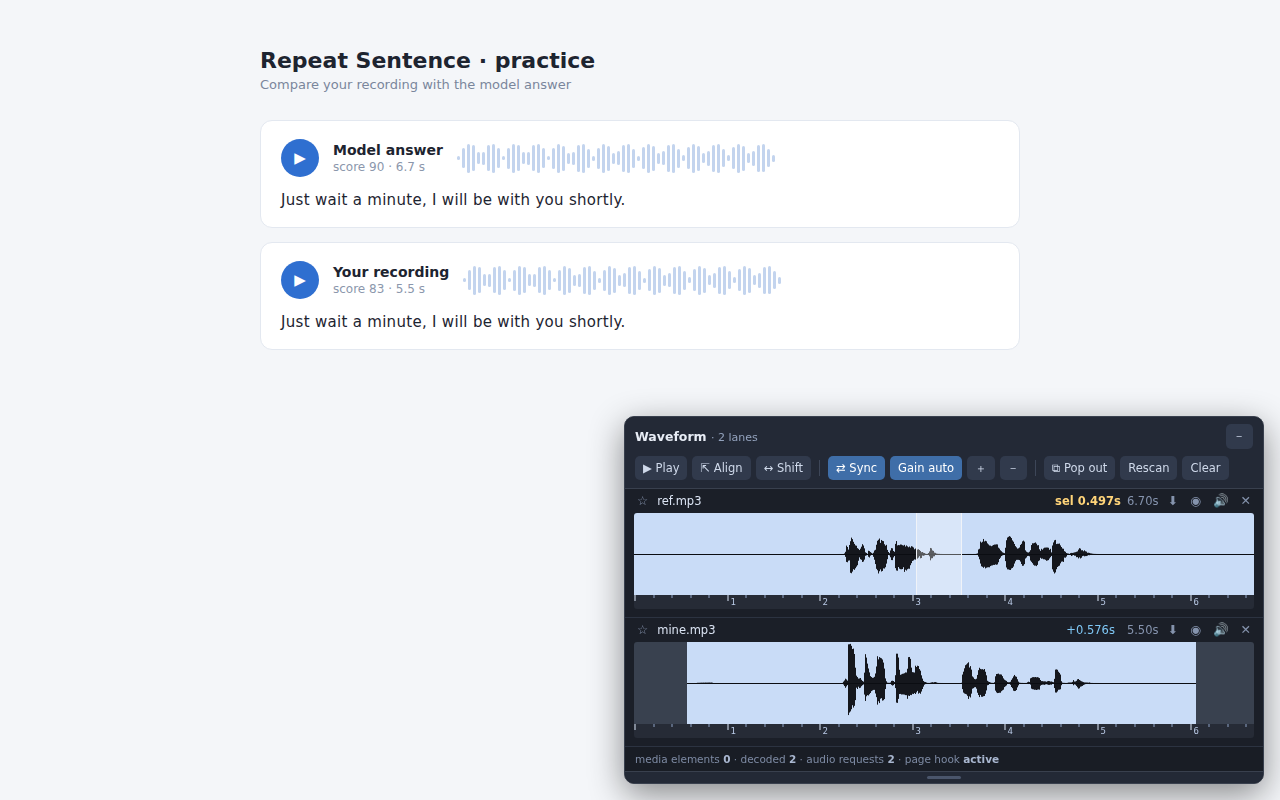
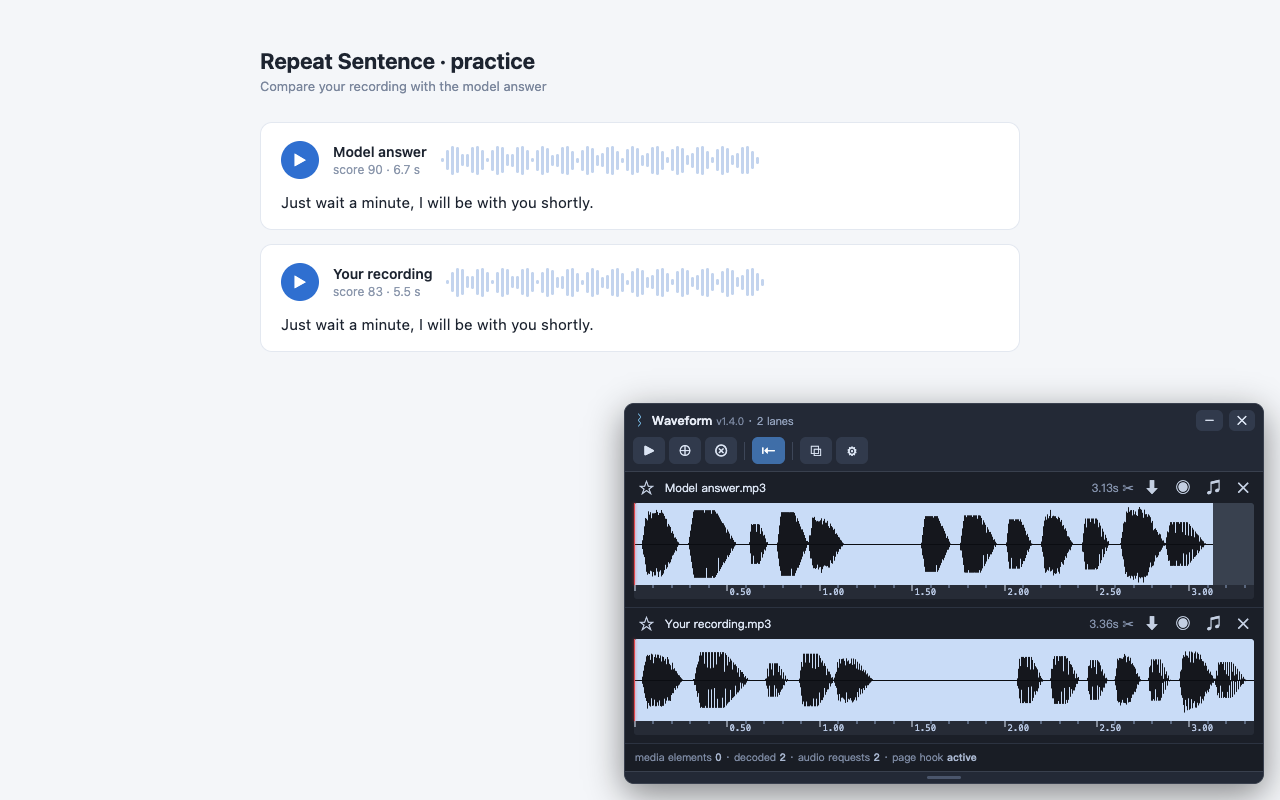
Regenerate the store screenshots for 1.4.0, and make them reproducible
The shipped screenshots still showed the text-label toolbar from before 1.4.0.
Screenshots of an interface the user will not find once they install are worse
than none, so they are now generated from the built extension by
store/make-screenshots.js rather than captured by hand.

Four shots at 1280x800 (the size both stores want): the panel over a practice
page, a selection measuring the pause, the standalone window filling a screen,
and the settings sheet.

The audio is synthesised with a syllable envelope instead of the plain tones
the test suite uses — tones render as solid rectangles, and a store image of
that misrepresents what the tool draws. The two clips differ in where they
pause, which is the comparison the extension exists to make visible. Lane
labels come from the file name, so the files are named "Model answer" and
"Your recording": in a screenshot that label is doing the explaining.

Drops 02-popout.png and 02-window.png, which were stale duplicates.

diff --git a/store/make-screenshots.js b/store/make-screenshots.js
@@ -1,0 +1,142 @@
+/* Regenerates the store screenshots against the built extension.
+ *
+ *   ./build.sh && node store/make-screenshots.js
+ *
+ * Run it whenever the panel's look changes: shipping screenshots of a toolbar
+ * the user will not find once they install is worse than shipping none.
+ * Same Chromium setup as test/e2e.js — see DESIGN.md §20.3 for why the system
+ * Chrome cannot be used. The page behind the panel is test/demo.html, a mock
+ * practice page that imitates nobody.
+ */
+const { chromium } = require('playwright');
+const path = require('path'), os = require('os'), fs = require('fs');
+const REPO = path.join(__dirname, '..');
+const EXT = path.join(REPO, 'build', 'chrome');
+const OUT = path.join(REPO, 'store', 'screenshots');
+const SR_HZ = 44100;
+const sleep = (ms) => new Promise(r => setTimeout(r, ms));
+const SR = `document.getElementById('__wf_viewer_host').shadowRoot`;
+
+/* Speech-shaped audio. Pure tones render as solid rectangles, which is not what
+   anyone's recording looks like; a store screenshot showing that is a lie about
+   what the tool draws. Syllables get an attack/decay envelope, a drifting pitch
+   and a little noise, so the waveform has the bursts and gaps of real speech. */
+function syllable(dur, amp, f0, noisy) {
+  const n = Math.round(dur * SR_HZ), out = new Float32Array(n);
+  const atk = Math.max(1, n * 0.12), dec = Math.max(1, n * 0.45);
+  for (let i = 0; i < n; i++) {
+    const env = i < atk ? i / atk : Math.min(1, (n - i) / dec);
+    const f = f0 * (1 - 0.12 * (i / n));
+    const t = i / SR_HZ;
+    let v = Math.sin(2 * Math.PI * f * t) * 0.6
+          + Math.sin(4 * Math.PI * f * t) * 0.25
+          + Math.sin(6 * Math.PI * f * t) * 0.12;
+    if (noisy) v = v * 0.35 + (Math.random() * 2 - 1) * 0.5;
+    out[i] = v * env * amp;
+  }
+  return out;
+}
+const gap = (d) => new Float32Array(Math.round(d * SR_HZ));
+function wav(parts) {
+  let len = 0; for (const p of parts) len += p.length;
+  const data = Buffer.alloc(len * 2);
+  let o = 0;
+  for (const p of parts) for (let i = 0; i < p.length; i++, o += 2)
+    data.writeInt16LE(Math.max(-32768, Math.min(32767, Math.round(p[i] * 32767))), o);
+  const h = Buffer.alloc(44);
+  h.write('RIFF', 0); h.writeUInt32LE(36 + data.length, 4); h.write('WAVE', 8);
+  h.write('fmt ', 12); h.writeUInt32LE(16, 16); h.writeUInt16LE(1, 20); h.writeUInt16LE(1, 22);
+  h.writeUInt32LE(SR_HZ, 24); h.writeUInt32LE(SR_HZ * 2, 28); h.writeUInt16LE(2, 32); h.writeUInt16LE(16, 34);
+  h.write('data', 36); h.writeUInt32LE(data.length, 40);
+  return Buffer.concat([h, data]);
+}
+// "Just wait a minute, I will be with you shortly."
+const say = (spec, base) => {
+  const out = [];
+  for (const s of spec) out.push(typeof s === 'number' ? gap(s) : syllable(s[0], s[1], base * s[2], s[3]));
+  return out;
+};
+const WORDS = [
+  [0.20, 0.75, 1.00, true], 0.05, [0.26, 0.85, 1.06], 0.07, [0.10, 0.50, 0.94],
+  0.05, [0.17, 0.80, 1.10], [0.19, 0.60, 0.90, true],
+  0.42,                                    // the pause after "minute"
+  [0.16, 0.70, 1.12], 0.05, [0.20, 0.72, 1.00], 0.05, [0.14, 0.62, 0.95],
+  0.05, [0.17, 0.68, 1.04, true], 0.05, [0.15, 0.64, 0.92],
+  0.06, [0.24, 0.80, 1.08, true], [0.22, 0.55, 0.86]
+];
+// the learner's take: a longer hesitation, and the tail rushed
+const MINE = [
+  [0.22, 0.62, 1.00, true], 0.06, [0.30, 0.70, 1.04], 0.09, [0.12, 0.42, 0.92],
+  0.06, [0.19, 0.66, 1.08], [0.21, 0.50, 0.88, true],
+  0.78,                                    // hesitates twice as long
+  [0.14, 0.58, 1.10], 0.04, [0.16, 0.60, 1.00], 0.04, [0.11, 0.50, 0.94],
+  0.04, [0.14, 0.56, 1.02, true], 0.04, [0.12, 0.52, 0.90],
+  0.05, [0.19, 0.66, 1.06, true], [0.17, 0.45, 0.85]
+];
+/* The lane label comes from the file name, and in a store screenshot that label
+   is doing the explaining. "Model answer" beats "ref.mp3". The demo page is
+   served with its references rewritten to match; the repo copy is untouched. */
+const FILES = {
+  'Model answer.mp3':   wav([gap(0.5), ...say(WORDS, 165), gap(0.6)]),
+  'Your recording.mp3': wav([gap(0.8), ...say(MINE, 128),  gap(0.5)]),
+  'demo.html': Buffer.from(fs.readFileSync(path.join(REPO, 'test', 'demo.html'), 'utf8')
+    .replace(/ref\.mp3/g, 'Model answer.mp3')
+    .replace(/mine\.mp3/g, 'Your recording.mp3'))
+};
+
+(async () => {
+  fs.mkdirSync(OUT, { recursive: true });
+  const dir = fs.mkdtempSync(path.join(os.tmpdir(), 'wf-'));
+  const ctx = await chromium.launchPersistentContext(dir, {
+    channel: 'chromium', headless: true,
+    ignoreDefaultArgs: ['--disable-extensions', '--disable-component-extensions-with-background-pages'],
+    args: ['--disable-extensions-except=' + EXT, '--load-extension=' + EXT,
+           '--autoplay-policy=no-user-gesture-required', '--no-first-run'],
+    viewport: { width: 1280, height: 800 }, deviceScaleFactor: 1
+  });
+  await ctx.route('https://practice.example/**', (route) => {
+    // decode: the file names have spaces in them, and the URL does not
+    const n = decodeURIComponent(new URL(route.request().url()).pathname).replace(/^\//, '') || 'demo.html';
+    const b = FILES[n];
+    if (!b) return route.fulfill({ status: 404, body: 'no' });
+    route.fulfill({ status: 200, body: b, contentType: n.endsWith('.html') ? 'text/html' : 'audio/mpeg' });
+  });
+
+  const page = ctx.pages()[0] || await ctx.newPage();
+  await page.goto('https://practice.example/demo.html');
+  await sleep(700);
+  await page.click('[data-f="Model answer.mp3"]');
+  await sleep(1500);
+  await page.click('[data-f="Your recording.mp3"]');
+  await sleep(2500);
+
+  await page.screenshot({ path: path.join(OUT, '01-compare.png') });
+
+  // drag across the pause on the second lane, so the gap readout is on screen
+  const box = await page.evaluate(`(() => {
+      const c = [...${SR}.querySelectorAll('.lane canvas')][1].getBoundingClientRect();
+      return { x: c.left, y: c.top + c.height / 2, w: c.width }; })()`);
+  await page.mouse.move(box.x + box.w * 0.40, box.y);
+  await page.mouse.down();
+  await page.mouse.move(box.x + box.w * 0.56, box.y, { steps: 12 });
+  await page.mouse.up();
+  await sleep(500);
+  await page.screenshot({ path: path.join(OUT, '02-measure.png') });
+
+  await page.evaluate(`${SR}.querySelector('[data-act="settings"]').click()`);
+  await sleep(500);
+  await page.screenshot({ path: path.join(OUT, '04-settings.png') });
+  await page.evaluate(`${SR}.querySelector('[data-act="settings"]').click()`);
+  await sleep(300);
+
+  await page.evaluate(`${SR}.querySelector('[data-act="pop"]').click()`);
+  await sleep(3000);
+  const win = ctx.pages().find(p => p.url().includes('panel.html'));
+  if (win) {
+    await win.setViewportSize({ width: 1280, height: 800 });
+    await sleep(1200);
+    await win.screenshot({ path: path.join(OUT, '03-window.png') });
+  }
+  await ctx.close();
+  console.log('written to', OUT);
+})();

diff --git a/DESIGN.md b/DESIGN.md
@@ -1345,9 +1345,19 @@ src/ + manifests/<target>.json  →  build/<target>/  →  dist/*.zip
 
 ### 21.3 商店素材
 
-`store/` 目录：`listing-en.md`（名称、简短描述、详细描述、权限说明）、`privacy-policy.md`、`reviewer-notes.md`、`screenshots/`。
+`store/` 目录：`listing-en.md`（名称、简短描述、详细描述、权限说明）、`privacy-policy.md`、`reviewer-notes.md`、`release-notes-<ver>.md`、`screenshots/`、`make-screenshots.js`。
 
 权限说明必须写清楚 `<all_urls>` 的两个理由（见 §16.1），这是审核最容易卡的地方。
+
+**截图是生成的，不是手工截的**：
+
+```bash
+./build.sh && node store/make-screenshots.js
+```
+
+和 `test/e2e.js` 同一套 Chromium 装载方式（为什么不能用系统 Chrome 见 §20.3），背景是 `test/demo.html` 这个谁也不模仿的模拟练习页，音频是现场合成的"语音形状"——纯音会画成一排方块，拿那个当商店图等于谎报这个工具画出来的东西长什么样。
+
+**界面一改就要重跑。** v1.4.0 把工具栏全换成图标之后，商店里挂的还是带文字标签的旧图——用户装上看到的和图片对不上，比没有图更糟。
 
 ---
 
